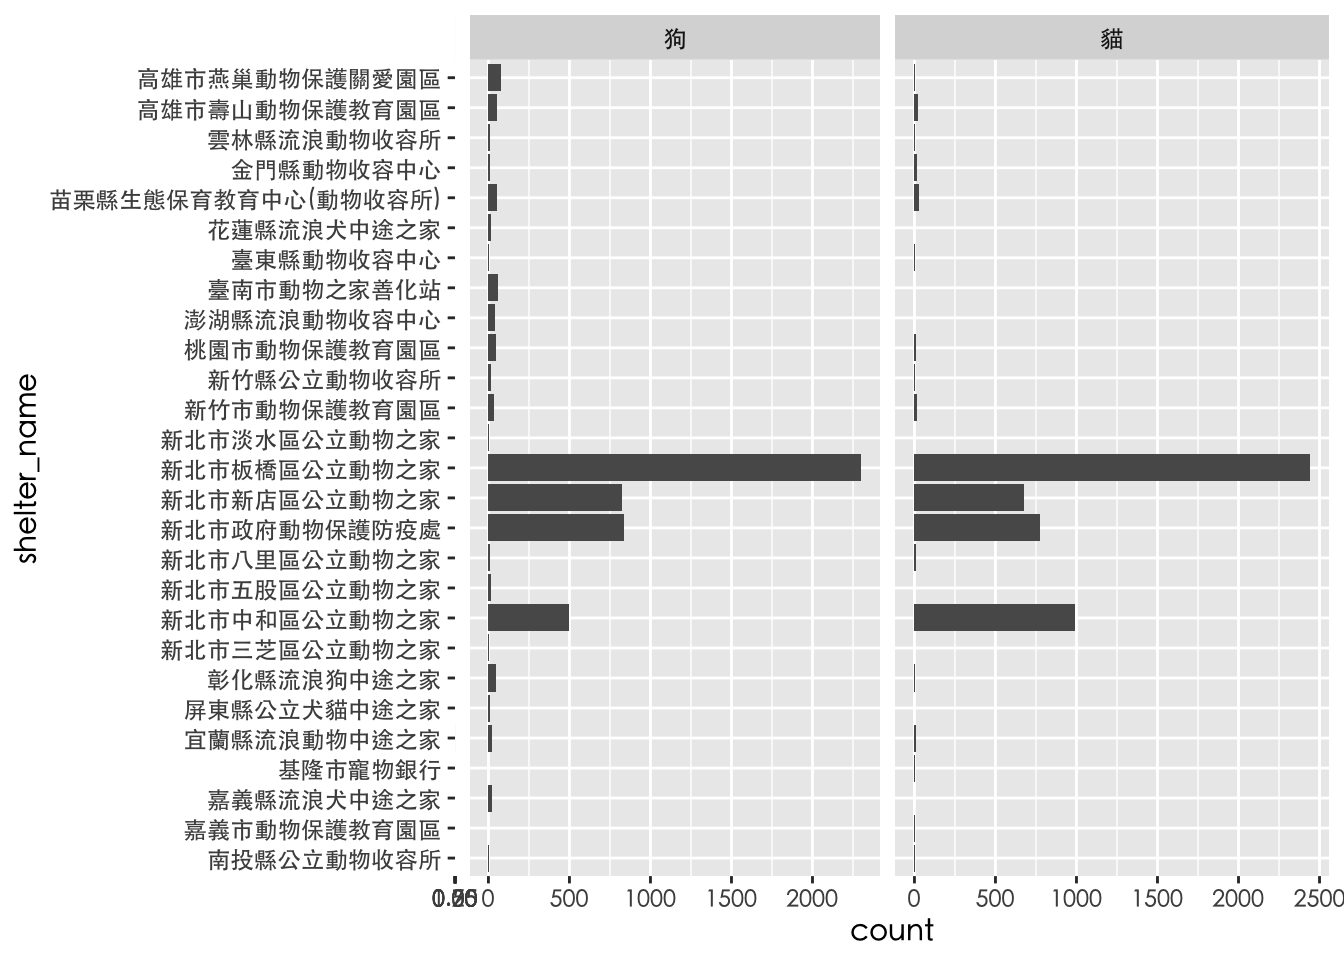
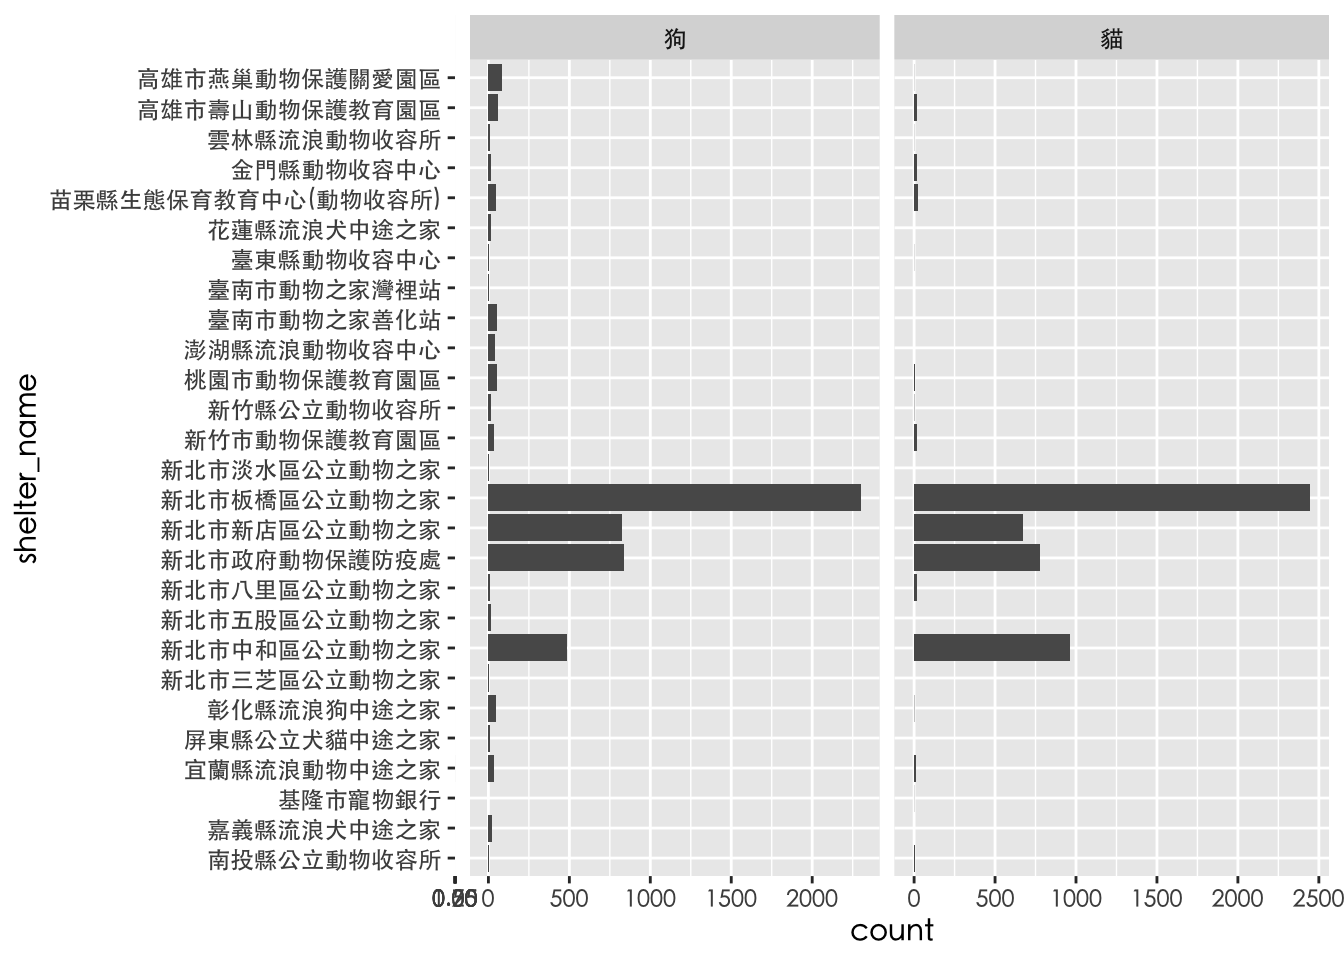
macOS

diff --git a/public/post/osx-chinese/index.html b/public/post/osx-chinese/index.html
@@ -1,7 +1,7 @@
 <!DOCTYPE html>
 <html>
 <head>
-    <title>解決在OSX (Mac) 環境中作圖無法顯示中文的問題 // 有完沒完RRR</title>
+    <title>解決在macOS環境中作圖無法顯示中文的問題 // 有完沒完RRR</title>
 
     <meta charset="utf-8">
     <meta http-equiv="content-type" content="text/html; charset=utf-8">
@@ -10,7 +10,7 @@
     
     
 
-        <meta property="og:title" content="解決在OSX (Mac) 環境中作圖無法顯示中文的問題" />
+        <meta property="og:title" content="解決在macOS環境中作圖無法顯示中文的問題" />
     <meta property="og:description" content="" />
     <meta property="og:type" content="website" />
     <meta property="og:locale" content="en" />
@@ -58,7 +58,7 @@
     <div class="article-inner">
         
         <header class="article-header">
-            <h1 class="article-title" itemprop="name">解決在OSX (Mac) 環境中作圖無法顯示中文的問題</h1>
+            <h1 class="article-title" itemprop="name">解決在macOS環境中作圖無法顯示中文的問題</h1>
         </header>
         
         <div class="article-meta">
@@ -107,46 +107,46 @@ PetAPI %&gt;%
 </thead>
 <tbody>
 <tr class="odd">
-<td align="left">苗栗縣生態保育教育中心(動物收容所)</td>
+<td align="left">新竹縣公立動物收容所</td>
 <td align="left">狗</td>
-<td align="left">F</td>
-<td align="left">ADULT</td>
-<td align="left">黃色</td>
+<td align="left">M</td>
+<td align="left"></td>
+<td align="left">虎斑色</td>
 </tr>
 <tr class="even">
-<td align="left">苗栗縣生態保育教育中心(動物收容所)</td>
+<td align="left">新北市板橋區公立動物之家</td>
+<td align="left">狗</td>
+<td align="left">M</td>
+<td align="left">ADULT</td>
+<td align="left">黑色</td>
+</tr>
+<tr class="odd">
+<td align="left">新竹縣公立動物收容所</td>
 <td align="left">狗</td>
 <td align="left">F</td>
+<td align="left"></td>
+<td align="left">米色</td>
+</tr>
+<tr class="even">
+<td align="left">高雄市壽山動物保護教育園區</td>
+<td align="left">貓</td>
+<td align="left">M</td>
 <td align="left">ADULT</td>
-<td align="left">白色</td>
+<td align="left">虎斑色</td>
 </tr>
 <tr class="odd">
 <td align="left">新北市中和區公立動物之家</td>
+<td align="left">狗</td>
+<td align="left">M</td>
+<td align="left">ADULT</td>
+<td align="left">黑黃色</td>
+</tr>
+<tr class="even">
+<td align="left">金門縣動物收容中心</td>
 <td align="left">貓</td>
 <td align="left">M</td>
 <td align="left">CHILD</td>
-<td align="left">黃虎斑色</td>
-</tr>
-<tr class="even">
-<td align="left">新北市中和區公立動物之家</td>
-<td align="left">貓</td>
-<td align="left">F</td>
-<td align="left">ADULT</td>
 <td align="left">虎斑白色</td>
-</tr>
-<tr class="odd">
-<td align="left">新北市中和區公立動物之家</td>
-<td align="left">貓</td>
-<td align="left">F</td>
-<td align="left">CHILD</td>
-<td align="left">黑色</td>
-</tr>
-<tr class="even">
-<td align="left">新北市中和區公立動物之家</td>
-<td align="left">貓</td>
-<td align="left">F</td>
-<td align="left">CHILD</td>
-<td align="left">虎斑色</td>
 </tr>
 </tbody>
 </table>
@@ -158,7 +158,7 @@ ggplot(PetAPI,aes(shelter_name)) +
              scales=&quot;free&quot;,space=&quot;free&quot;) +
   coord_flip()</code></pre>
 <p><img src="/post/2020-05-20-osx-mac_files/figure-html/unnamed-chunk-4-1.png" width="672" /></p>
-<p><strong>在<code>theme()</code>中設定字型即可解決此問題</strong>，設定方法為將<code>text</code>參數指定為<code>element_text(family = &quot;指定字型名稱&quot;)</code>，以OSX內建的<strong>黑體-繁 中黑</strong>為例</p>
+<p><strong>在<code>theme()</code>中設定字型即可解決此問題</strong>，設定方法為將<code>text</code>參數指定為<code>element_text(family = &quot;指定字型名稱&quot;)</code>，以macOS內建的<strong>黑體-繁 中黑</strong>為例</p>
 <pre class="r"><code>library(ggplot2)
 ggplot(PetAPI,aes(shelter_name)) +
   geom_bar()+

diff --git a/content/post/2020-05-20-osx-mac.html b/content/post/2020-05-20-osx-mac.html
@@ -1,5 +1,5 @@
 ---
-title: 解決在OSX (Mac) 環境中作圖無法顯示中文的問題
+title: 解決在macOS環境中作圖無法顯示中文的問題
 author: Yi-Ju Tseng
 date: '2020-05-20'
 slug: osx-chinese
@@ -33,46 +33,46 @@ PetAPI %&gt;%
 </thead>
 <tbody>
 <tr class="odd">
-<td align="left">苗栗縣生態保育教育中心(動物收容所)</td>
+<td align="left">新竹縣公立動物收容所</td>
 <td align="left">狗</td>
-<td align="left">F</td>
-<td align="left">ADULT</td>
-<td align="left">黃色</td>
+<td align="left">M</td>
+<td align="left"></td>
+<td align="left">虎斑色</td>
 </tr>
 <tr class="even">
-<td align="left">苗栗縣生態保育教育中心(動物收容所)</td>
+<td align="left">新北市板橋區公立動物之家</td>
+<td align="left">狗</td>
+<td align="left">M</td>
+<td align="left">ADULT</td>
+<td align="left">黑色</td>
+</tr>
+<tr class="odd">
+<td align="left">新竹縣公立動物收容所</td>
 <td align="left">狗</td>
 <td align="left">F</td>
+<td align="left"></td>
+<td align="left">米色</td>
+</tr>
+<tr class="even">
+<td align="left">高雄市壽山動物保護教育園區</td>
+<td align="left">貓</td>
+<td align="left">M</td>
 <td align="left">ADULT</td>
-<td align="left">白色</td>
+<td align="left">虎斑色</td>
 </tr>
 <tr class="odd">
 <td align="left">新北市中和區公立動物之家</td>
+<td align="left">狗</td>
+<td align="left">M</td>
+<td align="left">ADULT</td>
+<td align="left">黑黃色</td>
+</tr>
+<tr class="even">
+<td align="left">金門縣動物收容中心</td>
 <td align="left">貓</td>
 <td align="left">M</td>
 <td align="left">CHILD</td>
-<td align="left">黃虎斑色</td>
-</tr>
-<tr class="even">
-<td align="left">新北市中和區公立動物之家</td>
-<td align="left">貓</td>
-<td align="left">F</td>
-<td align="left">ADULT</td>
 <td align="left">虎斑白色</td>
-</tr>
-<tr class="odd">
-<td align="left">新北市中和區公立動物之家</td>
-<td align="left">貓</td>
-<td align="left">F</td>
-<td align="left">CHILD</td>
-<td align="left">黑色</td>
-</tr>
-<tr class="even">
-<td align="left">新北市中和區公立動物之家</td>
-<td align="left">貓</td>
-<td align="left">F</td>
-<td align="left">CHILD</td>
-<td align="left">虎斑色</td>
 </tr>
 </tbody>
 </table>
@@ -84,7 +84,7 @@ ggplot(PetAPI,aes(shelter_name)) +
              scales=&quot;free&quot;,space=&quot;free&quot;) +
   coord_flip()</code></pre>
 <p><img src="/post/2020-05-20-osx-mac_files/figure-html/unnamed-chunk-4-1.png" width="672" /></p>
-<p><strong>在<code>theme()</code>中設定字型即可解決此問題</strong>，設定方法為將<code>text</code>參數指定為<code>element_text(family = &quot;指定字型名稱&quot;)</code>，以OSX內建的<strong>黑體-繁 中黑</strong>為例</p>
+<p><strong>在<code>theme()</code>中設定字型即可解決此問題</strong>，設定方法為將<code>text</code>參數指定為<code>element_text(family = &quot;指定字型名稱&quot;)</code>，以macOS內建的<strong>黑體-繁 中黑</strong>為例</p>
 <pre class="r"><code>library(ggplot2)
 ggplot(PetAPI,aes(shelter_name)) +
   geom_bar()+

diff --git a/public/index.html b/public/index.html
@@ -123,7 +123,7 @@
                 
                 
                 <header class="article-header">
-                    <h1 itemprop="name"><a class="article-title" href="/post/osx-chinese/">解決在OSX (Mac) 環境中作圖無法顯示中文的問題</a></h1>
+                    <h1 itemprop="name"><a class="article-title" href="/post/osx-chinese/">解決在macOS環境中作圖無法顯示中文的問題</a></h1>
                 </header>
                 
                 <div class="article-meta">

diff --git a/public/categories/r-language/index.html b/public/categories/r-language/index.html
@@ -77,7 +77,7 @@
                 <time datetime='2020-05-20T00:00:00.000&#43;00:00' itemprop="datePublished">2020 May 20</time>
             </a>
             <h1 itemprop="name">
-                <a class="archive-article-title" href="/post/osx-chinese/">解決在OSX (Mac) 環境中作圖無法顯示中文的問題</a>
+                <a class="archive-article-title" href="/post/osx-chinese/">解決在macOS環境中作圖無法顯示中文的問題</a>
             </h1>
         </header>
     </div>

diff --git a/public/post/index.html b/public/post/index.html
@@ -77,7 +77,7 @@
                 <time datetime='2020-05-20T00:00:00.000&#43;00:00' itemprop="datePublished">2020 May 20</time>
             </a>
             <h1 itemprop="name">
-                <a class="archive-article-title" href="/post/osx-chinese/">解決在OSX (Mac) 環境中作圖無法顯示中文的問題</a>
+                <a class="archive-article-title" href="/post/osx-chinese/">解決在macOS環境中作圖無法顯示中文的問題</a>
             </h1>
         </header>
     </div>

diff --git a/public/tags/r/index.html b/public/tags/r/index.html
@@ -79,7 +79,7 @@
                 <time datetime='2020-05-20T00:00:00.000&#43;00:00' itemprop="datePublished">2020 May 20</time>
             </a>
             <h1 itemprop="name">
-                <a class="archive-article-title" href="/post/osx-chinese/">解決在OSX (Mac) 環境中作圖無法顯示中文的問題</a>
+                <a class="archive-article-title" href="/post/osx-chinese/">解決在macOS環境中作圖無法顯示中文的問題</a>
             </h1>
         </header>
     </div>

diff --git a/public/tags/visualization/index.html b/public/tags/visualization/index.html
@@ -79,7 +79,7 @@
                 <time datetime='2020-05-20T00:00:00.000&#43;00:00' itemprop="datePublished">2020 May 20</time>
             </a>
             <h1 itemprop="name">
-                <a class="archive-article-title" href="/post/osx-chinese/">解決在OSX (Mac) 環境中作圖無法顯示中文的問題</a>
+                <a class="archive-article-title" href="/post/osx-chinese/">解決在macOS環境中作圖無法顯示中文的問題</a>
             </h1>
         </header>
     </div>

diff --git a/public/post/covid-19-shiny-dashboard/index.html b/public/post/covid-19-shiny-dashboard/index.html
@@ -169,7 +169,7 @@
     
     
     <a href="/post/osx-chinese/" id="article-nav-older" class="article-nav-link-wrap">
-        <div class="article-nav-title">解決在OSX (Mac) 環境中作圖無法顯示中文的問題&nbsp;<span>&gt;</span></div>
+        <div class="article-nav-title">解決在macOS環境中作圖無法顯示中文的問題&nbsp;<span>&gt;</span></div>
     </a>
     
 </nav>

diff --git a/public/post/tidymodel/index.html b/public/post/tidymodel/index.html
@@ -693,7 +693,7 @@ rf_pred</code></pre>
     
     <a href="/post/osx-chinese/" id="article-nav-newer" class="article-nav-link-wrap">
         <div class="article-nav-title"><span>&lt;</span>&nbsp;
-            解決在OSX (Mac) 環境中作圖無法顯示中文的問題
+            解決在macOS環境中作圖無法顯示中文的問題
         </div>
     </a>
     
